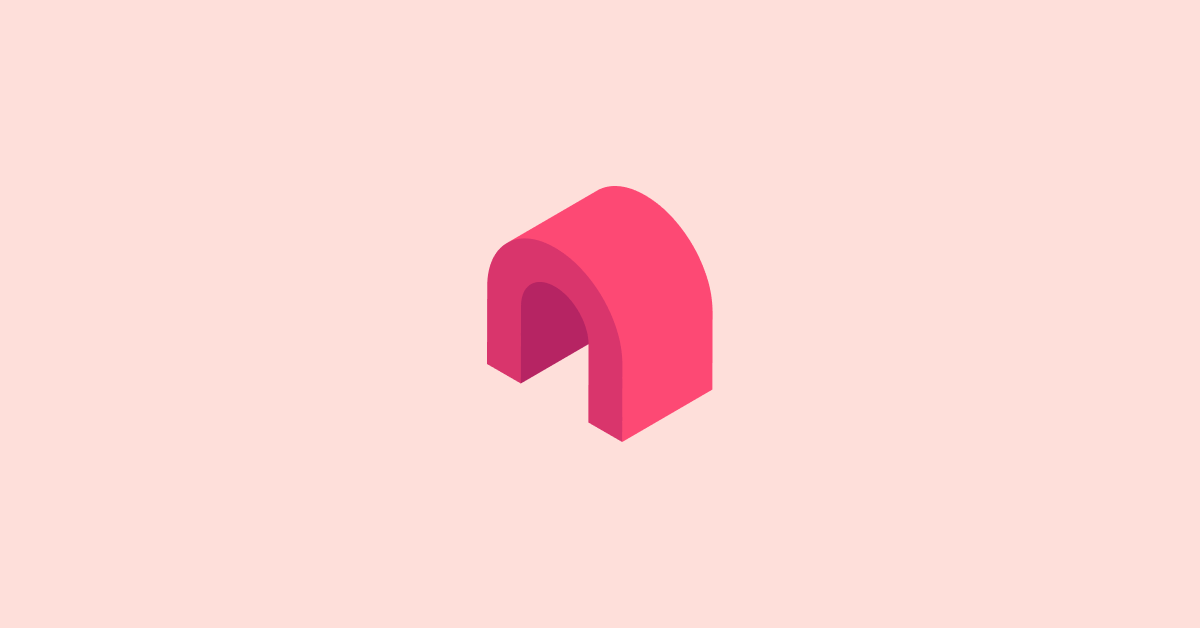
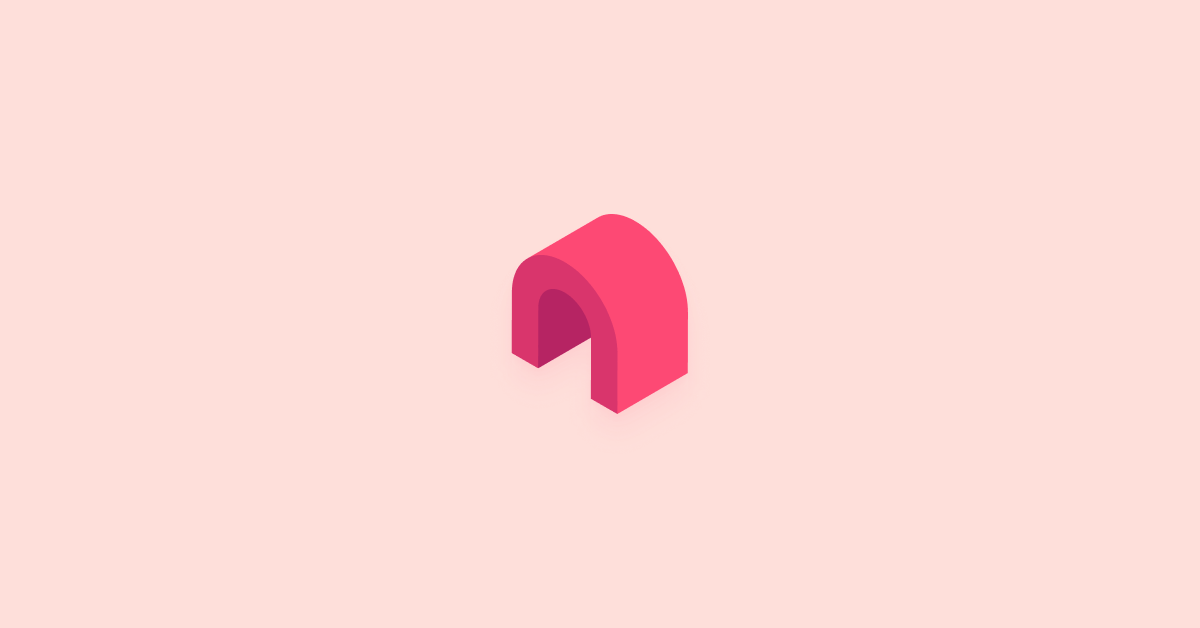
💄 Update metadata image

Changed region(s): [[0.4008, 0.2723, 0.6167, 0.6959]]

diff --git a/src/index.html b/src/index.html
@@ -15,14 +15,14 @@
   <meta property="og:url" content="https://navbar.nattwasm.now.sh/">
   <meta property="og:title" content="NPath — Roadmap Learning">
   <meta property="og:description" content="Our mission is to make education more accessible and inclusive to everyone. We create roadmaps for lifelong learners and those who aspire to become one.">
-  <meta property="og:image" content="https://i.imgur.com/LUs7K1P.png">
+  <meta property="og:image" content="https://i.imgur.com/rOhZ3pw.png">
 
   <!-- Twitter -->
   <meta property="twitter:card" content="summary_large_image">
   <meta property="twitter:url" content="https://navbar.nattwasm.now.sh/">
   <meta property="twitter:title" content="NPath — Roadmap Learning">
   <meta property="twitter:description" content="Our mission is to make education more accessible and inclusive to everyone. We create roadmaps for lifelong learners and those who aspire to become one.">
-  <meta property="twitter:image" content="https://i.imgur.com/LUs7K1P.png">
+  <meta property="twitter:image" content="https://i.imgur.com/rOhZ3pw.png">
 
   <!-- Base -->
   <link rel="shortcut icon" href="resources/images/favicon.png" type="image/x-icon">
